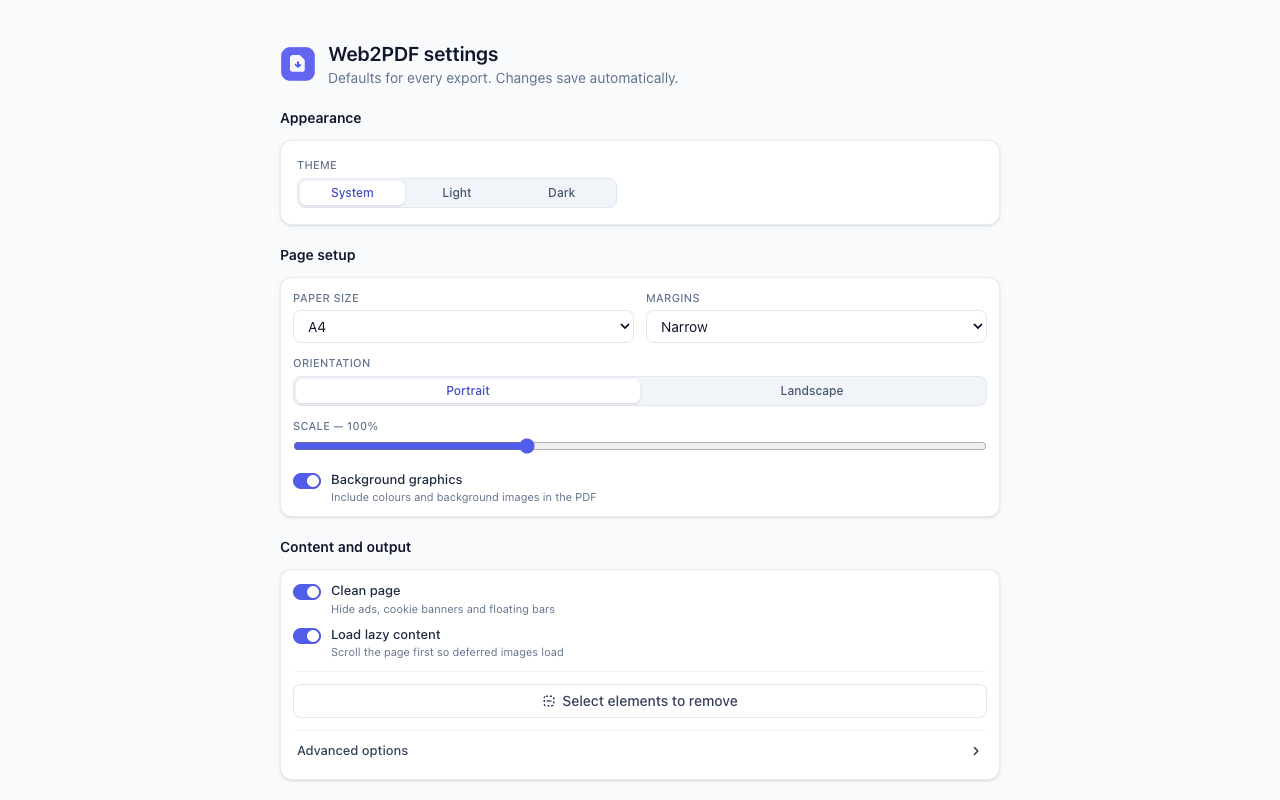
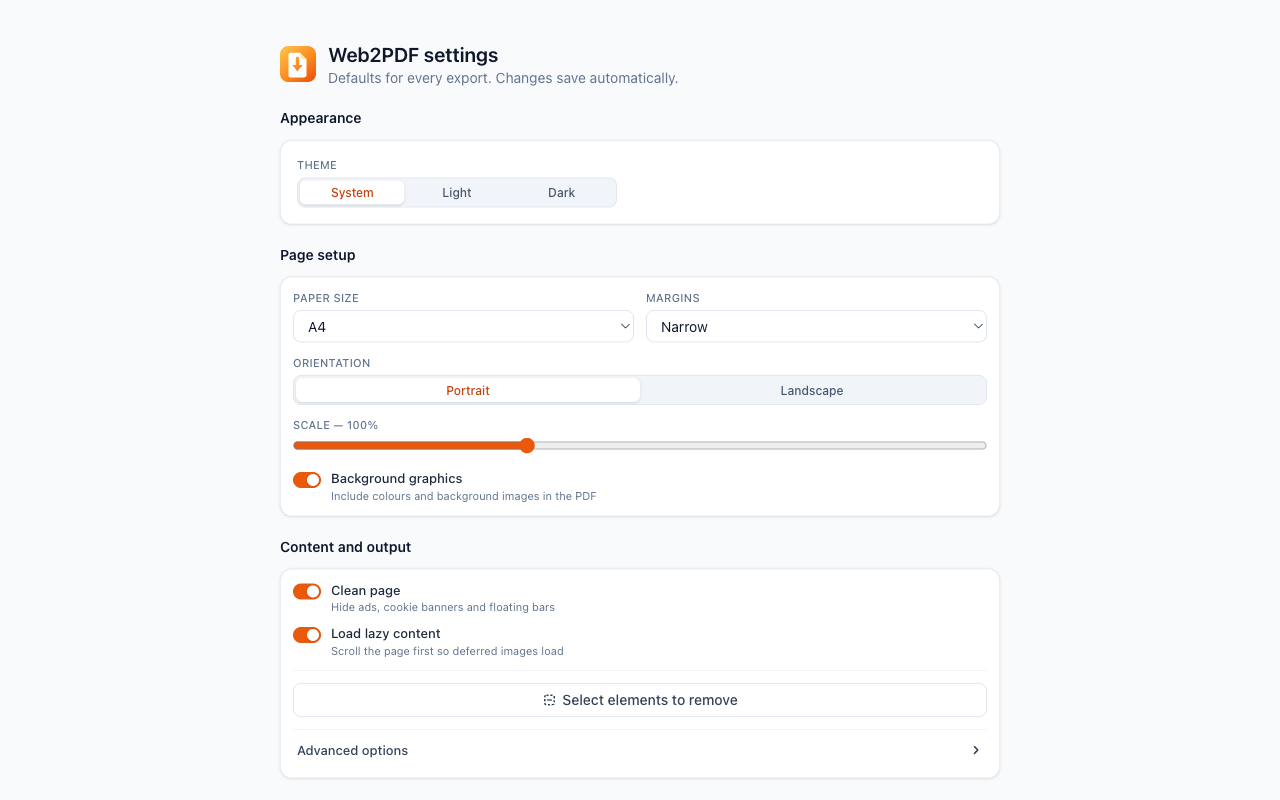
Rebrand to a brighter white-and-orange identity
New mark: the download arrow is knocked out of the sheet rather than drawn
on top of it, which keeps it legible once the tile is only a few pixels
wide. Four candidates were rendered at 128/48/32/16 on light and dark
chrome before choosing; a white tile was rejected because it washes out
against a light toolbar.

16 and 32 now render from a separate simplified source. The full mark keeps
the sheet at 44% of the tile width, leaving the arrow about 7px across at
16px, where it turned to a blob. Those sizes drop the sheet and let the
arrow carry the mark - the document silhouette was not readable there
anyway.

The palette moves with the icon so the assets do not contradict each other.
Shades are picked from measured contrast rather than by eye: #f97316 on
white is 2.80:1 and #ea580c is 3.56:1, so neither can carry white body
text. The primary button therefore sits on 700 (#c2410c, 5.18:1), while 600
is kept for focus rings and toggles where 3:1 is sufficient. Verified from
the rendered screenshots: the selected segment measures 5.18:1 in light and
7.65:1 in dark.

All derived assets regenerated: icon PNGs, popup and options captures, the
1280x800 store composites, and both promo tiles. Gate and the 18 end-to-end
checks still pass.

diff --git a/src/ui/components/Logo.tsx b/src/ui/components/Logo.tsx
@@ -1,28 +1,37 @@
-/** Document outline with a downward arrow: "page, saved". */
+/**
+ * The extension mark: a sheet with the download arrow knocked out of it.
+ * Kept in sync with `assets/icon.svg`.
+ */
 export function Logo({ className = 'h-6 w-6' }: { className?: string }) {
   return (
-    <svg className={className} viewBox="0 0 32 32" fill="none" aria-hidden="true">
-      <rect x="1" y="1" width="30" height="30" rx="8" fill="url(#w2p-logo-gradient)" />
-      <path
-        d="M11 8h6.5L22 12.5V21a2 2 0 0 1-2 2h-9a2 2 0 0 1-2-2V10a2 2 0 0 1 2-2Z"
-        fill="white"
-        fillOpacity="0.95"
-      />
-      <path d="M17.5 8v3.5a1 1 0 0 0 1 1H22" fill="white" fillOpacity="0.6" />
-      <path
-        d="M16 14.5v4.2m0 0 2-2m-2 2-2-2"
-        stroke="currentColor"
-        className="text-brand-600"
-        strokeWidth="1.8"
-        strokeLinecap="round"
-        strokeLinejoin="round"
-      />
+    <svg className={className} viewBox="0 0 128 128" fill="none" aria-hidden="true">
       <defs>
-        <linearGradient id="w2p-logo-gradient" x1="0" y1="0" x2="32" y2="32">
-          <stop stopColor="#6366f1" />
-          <stop offset="1" stopColor="#4338ca" />
+        <linearGradient
+          id="w2p-logo-bg"
+          x1="8"
+          y1="0"
+          x2="120"
+          y2="128"
+          gradientUnits="userSpaceOnUse"
+        >
+          <stop offset="0" stopColor="#FFC24A" />
+          <stop offset="0.55" stopColor="#FB8B1E" />
+          <stop offset="1" stopColor="#EE4E0B" />
         </linearGradient>
+        <mask id="w2p-logo-cut">
+          <rect width="128" height="128" fill="#000" />
+          <path
+            d="M38 24h34l22 22v58a8 8 0 0 1-8 8H38a8 8 0 0 1-8-8V32a8 8 0 0 1 8-8Z"
+            fill="#fff"
+          />
+          <path d="M62 44v22" stroke="#000" strokeWidth="12" strokeLinecap="round" />
+          <path d="M44 68h36L62 90Z" fill="#000" />
+        </mask>
       </defs>
+
+      <rect width="128" height="128" rx="30" fill="url(#w2p-logo-bg)" />
+      <rect width="128" height="128" mask="url(#w2p-logo-cut)" fill="#fff" />
+      <path d="M72 24v16a6 6 0 0 0 6 6h16Z" fill="#FFE2BC" />
     </svg>
   );
 }

diff --git a/src/ui/styles.css b/src/ui/styles.css
@@ -5,16 +5,21 @@
 @custom-variant dark (&:where(.dark, .dark *));
 
 @theme {
-  --color-brand-50: oklch(0.97 0.014 274);
-  --color-brand-100: oklch(0.94 0.031 274);
-  --color-brand-200: oklch(0.89 0.058 274);
-  --color-brand-300: oklch(0.81 0.098 274);
-  --color-brand-400: oklch(0.71 0.15 274);
-  --color-brand-500: oklch(0.62 0.19 274);
-  --color-brand-600: oklch(0.55 0.21 274);
-  --color-brand-700: oklch(0.48 0.19 274);
-  --color-brand-800: oklch(0.4 0.155 274);
-  --color-brand-900: oklch(0.34 0.12 274);
+  /* Brand ramp. Shades are chosen against measured contrast, not by eye:
+     #f97316 (500) on white is only 2.80:1 and #ea580c (600) is 3.56:1, so
+     neither can carry white body text. 700 (#c2410c, 5.18:1) is the lightest
+     shade that clears WCAG AA, which is why the primary button sits there
+     while 600 is reserved for focus rings and toggles, where 3:1 suffices. */
+  --color-brand-50: #fff7ed;
+  --color-brand-100: #ffedd5;
+  --color-brand-200: #fed7aa;
+  --color-brand-300: #fdba74;
+  --color-brand-400: #fb923c;
+  --color-brand-500: #f97316;
+  --color-brand-600: #ea580c;
+  --color-brand-700: #c2410c;
+  --color-brand-800: #9a3412;
+  --color-brand-900: #7c2d12;
 
   --radius-card: 0.75rem;
   --ease-snap: cubic-bezier(0.2, 0, 0, 1);
@@ -47,7 +52,7 @@
 
   /* Visible focus for keyboard users on every interactive element. */
   :focus-visible {
-    @apply outline-2 outline-offset-2 outline-brand-500;
+    @apply outline-2 outline-offset-2 outline-brand-600;
   }
 
   @media (prefers-reduced-motion: reduce) {
@@ -95,7 +100,7 @@
   }
 
   .w2p-btn-primary {
-    @apply bg-brand-600 text-white shadow-sm hover:bg-brand-700 active:scale-[0.99] disabled:hover:bg-brand-600;
+    @apply bg-brand-700 text-white shadow-sm hover:bg-brand-800 active:scale-[0.99] disabled:hover:bg-brand-700;
   }
 
   .w2p-btn-ghost {

diff --git a/src/services/selector.service.ts b/src/services/selector.service.ts
@@ -94,11 +94,11 @@ function injectStyles(): HTMLStyleElement {
     #${ROOT_ID} { all: initial; }
     #${ROOT_ID} .w2p-highlight {
       position: fixed; pointer-events: none; z-index: 2147483646;
-      border: 2px solid #6366f1; background: rgba(99, 102, 241, 0.18);
+      border: 2px solid #ea580c; background: rgba(234, 88, 12, 0.16);
       border-radius: 4px; transition: all 90ms ease-out; display: none;
     }
     #${ROOT_ID} .w2p-marked {
-      outline: 2px dashed #ef4444 !important;
+      outline: 2px dashed #b91c1c !important;
       outline-offset: 2px !important;
       opacity: 0.4 !important;
     }
@@ -115,7 +115,7 @@ function injectStyles(): HTMLStyleElement {
       padding: 6px 10px; border-radius: 8px;
     }
     #${ROOT_ID} .w2p-toolbar button:hover { background: rgba(255,255,255,0.18); }
-    #${ROOT_ID} .w2p-toolbar button.w2p-primary { background: #6366f1; border-color: #6366f1; }
+    #${ROOT_ID} .w2p-toolbar button.w2p-primary { background: #c2410c; border-color: #c2410c; }
     #${ROOT_ID} .w2p-count { opacity: 0.85; }
   `;
   document.documentElement.appendChild(style);
